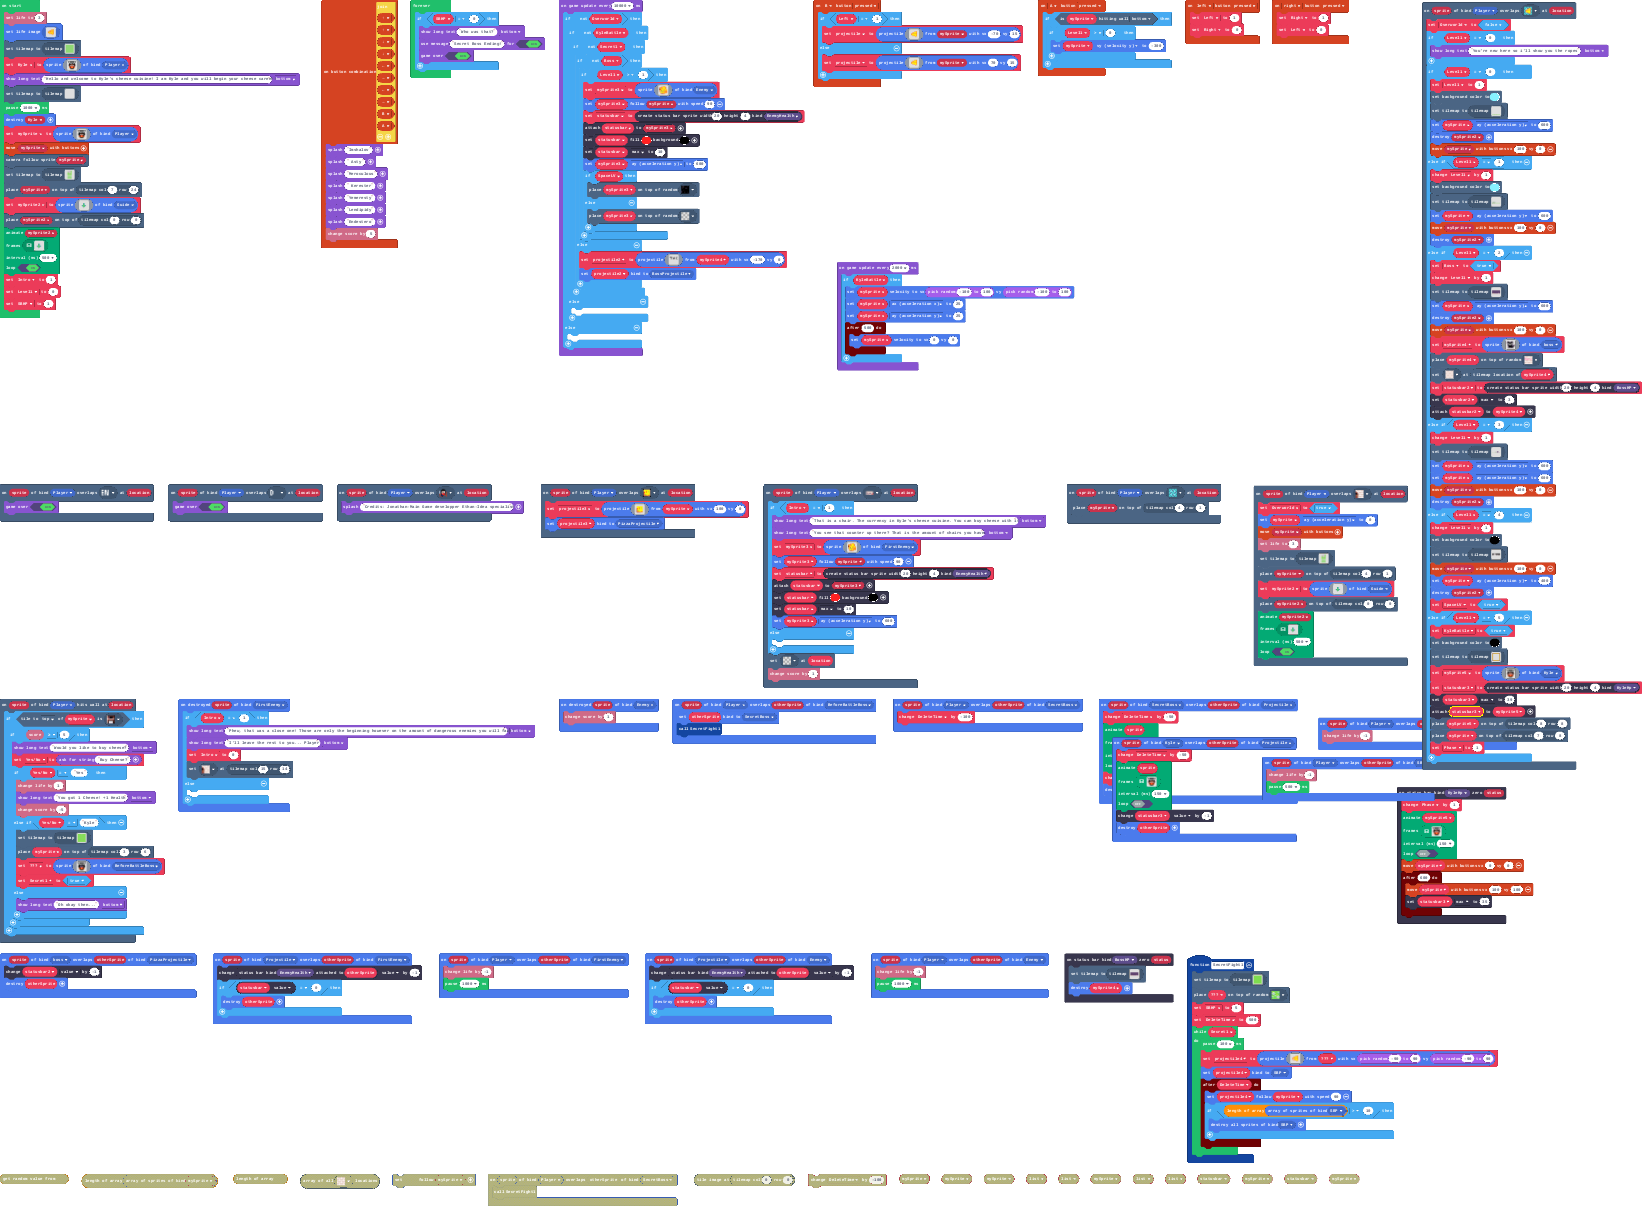
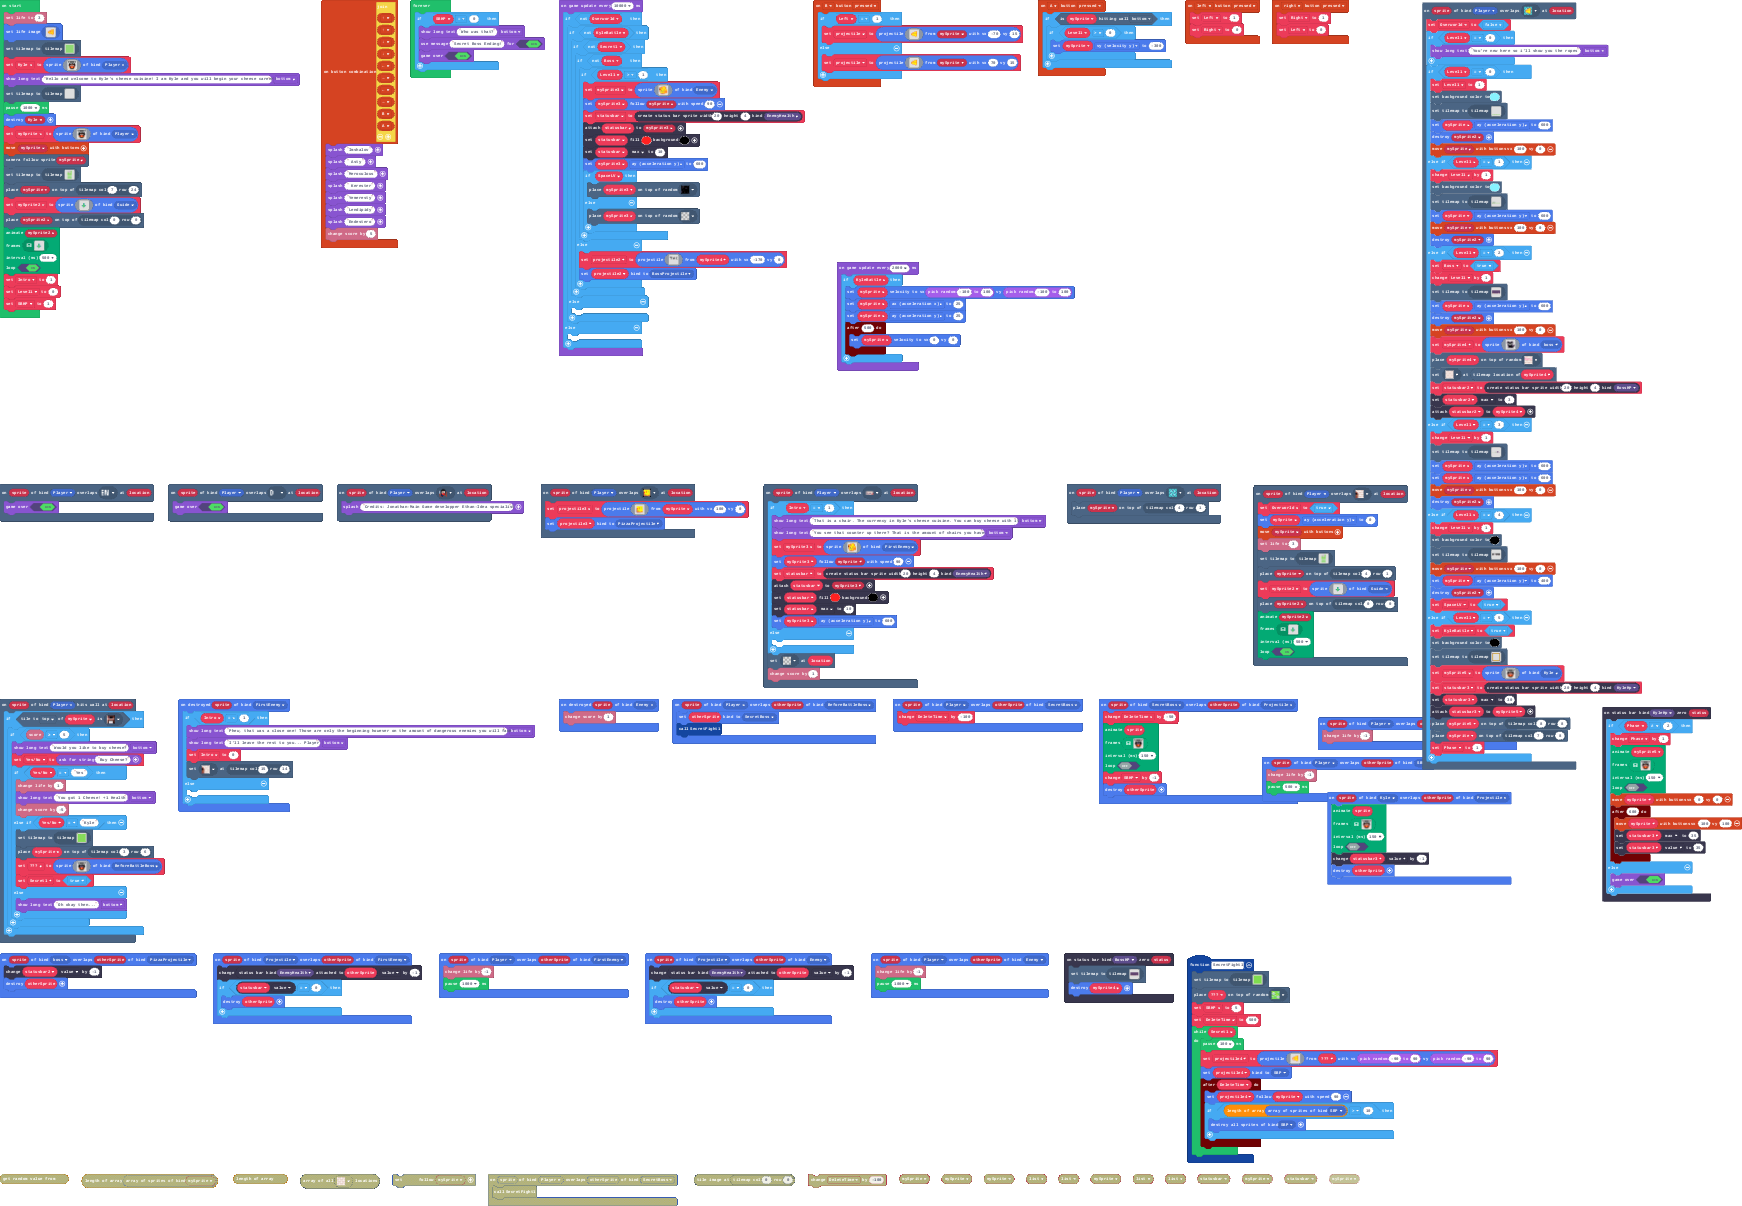
Update main.blocks, main.ts

Changed region(s): [[0.0, 0.0, 1.0, 0.767], [0.0, 0.5829, 0.9318, 1.0], [0.1242, 0.9511, 0.3417, 1.0]]

diff --git a/main.ts b/main.ts
@@ -99,7 +99,7 @@ scene.onOverlapTile(SpriteKind.Player, assets.tile`myTile1`, function (sprite, l
             . . . . . f f . . f f . . . . . 
             `, SpriteKind.Kyle)
         statusbar3 = statusbars.create(20, 4, StatusBarKind.KyleHp)
-        statusbar3.max = 39
+        statusbar3.max = 30
         statusbar3.attachToSprite(mySprite5)
         tiles.placeOnTile(mySprite5, tiles.getTileLocation(8, 8))
         tiles.placeOnTile(mySprite, tiles.getTileLocation(7, 8))
@@ -279,86 +279,91 @@ sprites.onOverlap(SpriteKind.Player, SpriteKind.BossProjectile, function (sprite
     info.changeLifeBy(-1)
 })
 statusbars.onZero(StatusBarKind.KyleHp, function (status) {
-    Phase += 1
-    animation.runImageAnimation(
-    mySprite5,
-    [img`
-        . f f f f f f f f f f f f f f . 
-        . f 1 1 f 1 1 f 1 f 1 f 1 1 f . 
-        . f 1 1 f 1 1 f 1 f 1 f 1 1 f . 
-        . . f 1 f 1 1 f 1 f 1 f 1 f . . 
-        . . f 1 f 1 1 f 1 f 1 f 1 f . . 
-        . . f f 1 f 1 f f f f 1 f f . . 
-        . . f f f f e e e e f f f f . . 
-        . f f e f b f 4 4 f b f e f f . 
-        . f e e 4 1 f d d f 1 4 e e f . 
-        . . f e e d d d d d d e e f . . 
-        . . . f e e 4 4 4 4 e e f . . . 
-        . . e 4 f 2 2 2 2 2 2 f 4 e . . 
-        . . 4 d f 2 2 2 2 2 2 f d 4 . . 
-        . . 4 4 f 4 4 5 5 4 4 f 4 4 . . 
-        . . . . . f f f f f f . . . . . 
-        . . . . . f f . . f f . . . . . 
-        `,img`
-        . f f f f f f f f f f f f f f . 
-        . f 1 1 f 1 1 f 1 f 1 f 1 1 f . 
-        . f 1 1 f 1 1 f 1 f 1 f 1 1 f . 
-        . . f 1 f 1 1 f 1 f 1 f 1 f . . 
-        . . f 1 f 1 1 f 1 f 1 f 1 f . . 
-        . . f f 1 f 1 f f f f 1 f f . . 
-        . . f f f f e e e e f f f f . . 
-        . f f e f b 2 4 4 2 b f e 1 f . 
-        . f e 1 4 1 2 d d 2 1 4 e e f . 
-        . . f e e d d d d d d e e f . . 
-        . . . f e 1 4 4 4 4 e e f . . . 
-        . . e 4 f 2 2 2 2 2 1 f 4 e . . 
-        . . 4 d f 2 2 2 2 2 2 f d 4 . . 
-        . . 4 4 f 4 4 5 5 4 4 f 4 4 . . 
-        . . . . . f f f f f f . . . . . 
-        . . . . . f f . . f f . . . . . 
-        `,img`
-        . f f f f f f f f f f f f f f . 
-        . f 1 1 f 1 1 f 1 f 1 f 1 1 f . 
-        . f 1 1 f 1 1 f 1 f 1 f 1 1 f . 
-        . . f 1 f 1 1 f 1 f 1 f 1 f . . 
-        . . f 1 f 1 1 f 1 f 1 f 1 f . . 
-        . . f f 1 f 1 f f f f 1 f 1 . . 
-        . . f f f f e e e e f f 1 f 1 . 
-        . f f 1 f b 2 4 4 2 b 1 e e f 1 
-        . f 1 e 1 1 2 d d 2 1 4 1 e 1 . 
-        . . f 1 e 1 d d d d d e e 1 . . 
-        . . . f 1 e 1 4 4 4 1 e f . . . 
-        . . e 4 f 1 2 2 2 1 1 1 4 e . . 
-        . . 4 d f 2 2 2 2 2 1 f d 4 . . 
-        . . 4 4 f 4 4 5 5 4 4 f 4 4 . . 
-        . . . . . f f f f f f . . . . . 
-        . . . . . f f . . f f . . . . . 
-        `,img`
-        . f f f f f f f f f f f f f f . 
-        . f 1 1 f 1 1 f 1 f 1 f 1 1 f . 
-        . f 1 1 f 1 1 f 1 f 1 f 1 1 f . 
-        . . f 1 f 1 1 f 1 f 1 f 1 f . . 
-        . . f 1 f 1 1 f 1 f 1 f 1 f . . 
-        . . f f 1 f 1 f f f f 1 f f . . 
-        . . f f f f e e e e f f f f . . 
-        . f f e f b 2 4 4 2 b f e f f . 
-        . f e e 4 1 2 d d 2 1 4 e e f . 
-        . . f e e d d d d d d e e f . . 
-        . . . f e e 4 4 4 4 e e f . . . 
-        . . e 4 f 2 2 2 2 2 2 f 4 e . . 
-        . . 4 d f 2 2 2 2 2 2 f d 4 . . 
-        . . 4 4 f 4 4 5 5 4 4 f 4 4 . . 
-        . . . . . f f f f f f . . . . . 
-        . . . . . f f . . f f . . . . . 
-        `],
-    150,
-    false
-    )
-    controller.moveSprite(mySprite, 0, 0)
-    timer.after(600, function () {
-        controller.moveSprite(mySprite, 100, 100)
-        statusbar3.max = 35
-    })
+    if (Phase != 2) {
+        Phase += 1
+        animation.runImageAnimation(
+        mySprite5,
+        [img`
+            . f f f f f f f f f f f f f f . 
+            . f 1 1 f 1 1 f 1 f 1 f 1 1 f . 
+            . f 1 1 f 1 1 f 1 f 1 f 1 1 f . 
+            . . f 1 f 1 1 f 1 f 1 f 1 f . . 
+            . . f 1 f 1 1 f 1 f 1 f 1 f . . 
+            . . f f 1 f 1 f f f f 1 f f . . 
+            . . f f f f e e e e f f f f . . 
+            . f f e f b f 4 4 f b f e f f . 
+            . f e e 4 1 f d d f 1 4 e e f . 
+            . . f e e d d d d d d e e f . . 
+            . . . f e e 4 4 4 4 e e f . . . 
+            . . e 4 f 2 2 2 2 2 2 f 4 e . . 
+            . . 4 d f 2 2 2 2 2 2 f d 4 . . 
+            . . 4 4 f 4 4 5 5 4 4 f 4 4 . . 
+            . . . . . f f f f f f . . . . . 
+            . . . . . f f . . f f . . . . . 
+            `,img`
+            . f f f f f f f f f f f f f f . 
+            . f 1 1 f 1 1 f 1 f 1 f 1 1 f . 
+            . f 1 1 f 1 1 f 1 f 1 f 1 1 f . 
+            . . f 1 f 1 1 f 1 f 1 f 1 f . . 
+            . . f 1 f 1 1 f 1 f 1 f 1 f . . 
+            . . f f 1 f 1 f f f f 1 f f . . 
+            . . f f f f e e e e f f f f . . 
+            . f f e f b 2 4 4 2 b f e 1 f . 
+            . f e 1 4 1 2 d d 2 1 4 e e f . 
+            . . f e e d d d d d d e e f . . 
+            . . . f e 1 4 4 4 4 e e f . . . 
+            . . e 4 f 2 2 2 2 2 1 f 4 e . . 
+            . . 4 d f 2 2 2 2 2 2 f d 4 . . 
+            . . 4 4 f 4 4 5 5 4 4 f 4 4 . . 
+            . . . . . f f f f f f . . . . . 
+            . . . . . f f . . f f . . . . . 
+            `,img`
+            . f f f f f f f f f f f f f f . 
+            . f 1 1 f 1 1 f 1 f 1 f 1 1 f . 
+            . f 1 1 f 1 1 f 1 f 1 f 1 1 f . 
+            . . f 1 f 1 1 f 1 f 1 f 1 f . . 
+            . . f 1 f 1 1 f 1 f 1 f 1 f . . 
+            . . f f 1 f 1 f f f f 1 f 1 . . 
+            . . f f f f e e e e f f 1 f 1 . 
+            . f f 1 f b 2 4 4 2 b 1 e e f 1 
+            . f 1 e 1 1 2 d d 2 1 4 1 e 1 . 
+            . . f 1 e 1 d d d d d e e 1 . . 
+            . . . f 1 e 1 4 4 4 1 e f . . . 
+            . . e 4 f 1 2 2 2 1 1 1 4 e . . 
+            . . 4 d f 2 2 2 2 2 1 f d 4 . . 
+            . . 4 4 f 4 4 5 5 4 4 f 4 4 . . 
+            . . . . . f f f f f f . . . . . 
+            . . . . . f f . . f f . . . . . 
+            `,img`
+            . f f f f f f f f f f f f f f . 
+            . f 1 1 f 1 1 f 1 f 1 f 1 1 f . 
+            . f 1 1 f 1 1 f 1 f 1 f 1 1 f . 
+            . . f 1 f 1 1 f 1 f 1 f 1 f . . 
+            . . f 1 f 1 1 f 1 f 1 f 1 f . . 
+            . . f f 1 f 1 f f f f 1 f f . . 
+            . . f f f f e e e e f f f f . . 
+            . f f e f b 2 4 4 2 b f e f f . 
+            . f e e 4 1 2 d d 2 1 4 e e f . 
+            . . f e e d d d d d d e e f . . 
+            . . . f e e 4 4 4 4 e e f . . . 
+            . . e 4 f 2 2 2 2 2 2 f 4 e . . 
+            . . 4 d f 2 2 2 2 2 2 f d 4 . . 
+            . . 4 4 f 4 4 5 5 4 4 f 4 4 . . 
+            . . . . . f f f f f f . . . . . 
+            . . . . . f f . . f f . . . . . 
+            `],
+        150,
+        false
+        )
+        controller.moveSprite(mySprite, 0, 0)
+        timer.after(600, function () {
+            controller.moveSprite(mySprite, 100, 100)
+            statusbar3.max = 35
+            statusbar3.value = 35
+        })
+    } else {
+        game.gameOver(true)
+    }
 })
 sprites.onDestroyed(SpriteKind.FirstEnemy, function (sprite) {
     if (Intro == 1) {
@@ -478,7 +483,6 @@ scene.onOverlapTile(SpriteKind.Player, assets.tile`myTile9`, function (sprite, l
     game.gameOver(true)
 })
 sprites.onOverlap(SpriteKind.Kyle, SpriteKind.Projectile, function (sprite, otherSprite) {
-    DeleteTime += -50
     animation.runImageAnimation(
     sprite,
     [img`
